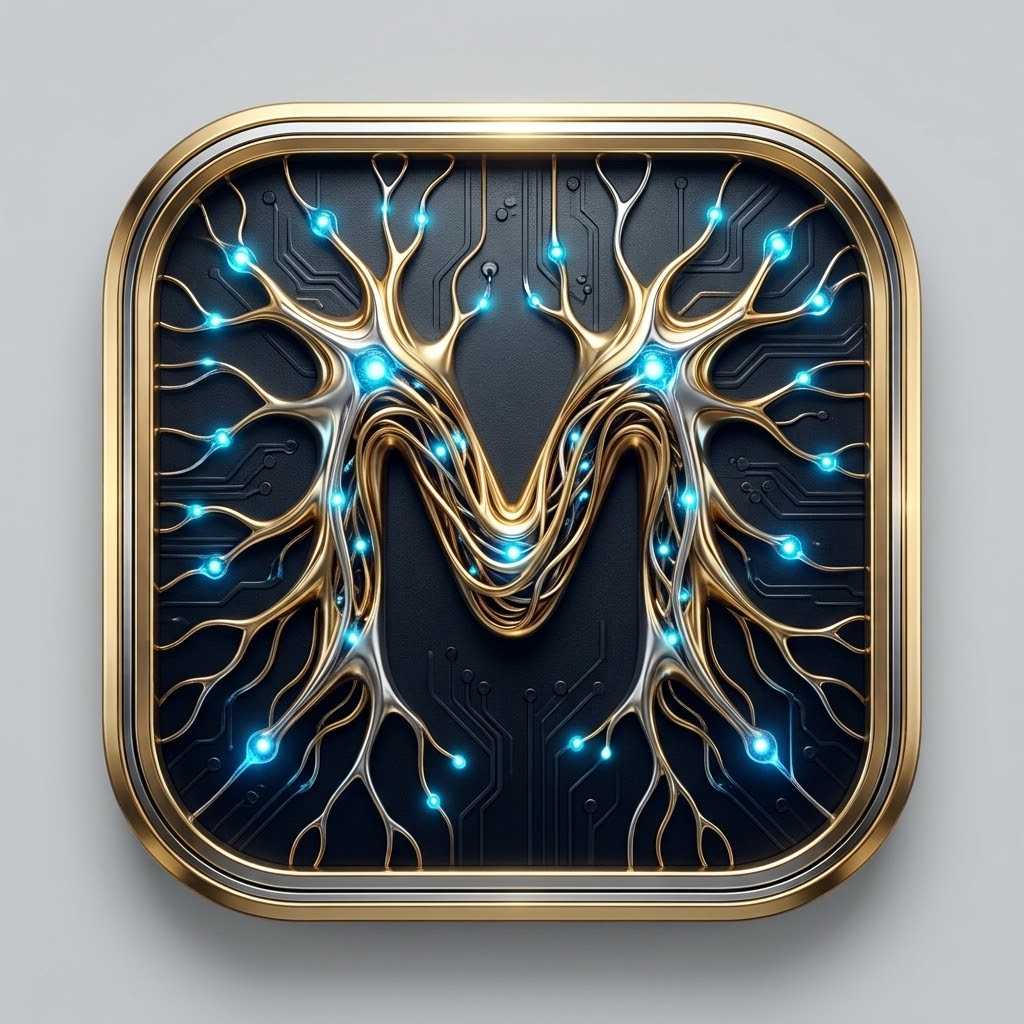
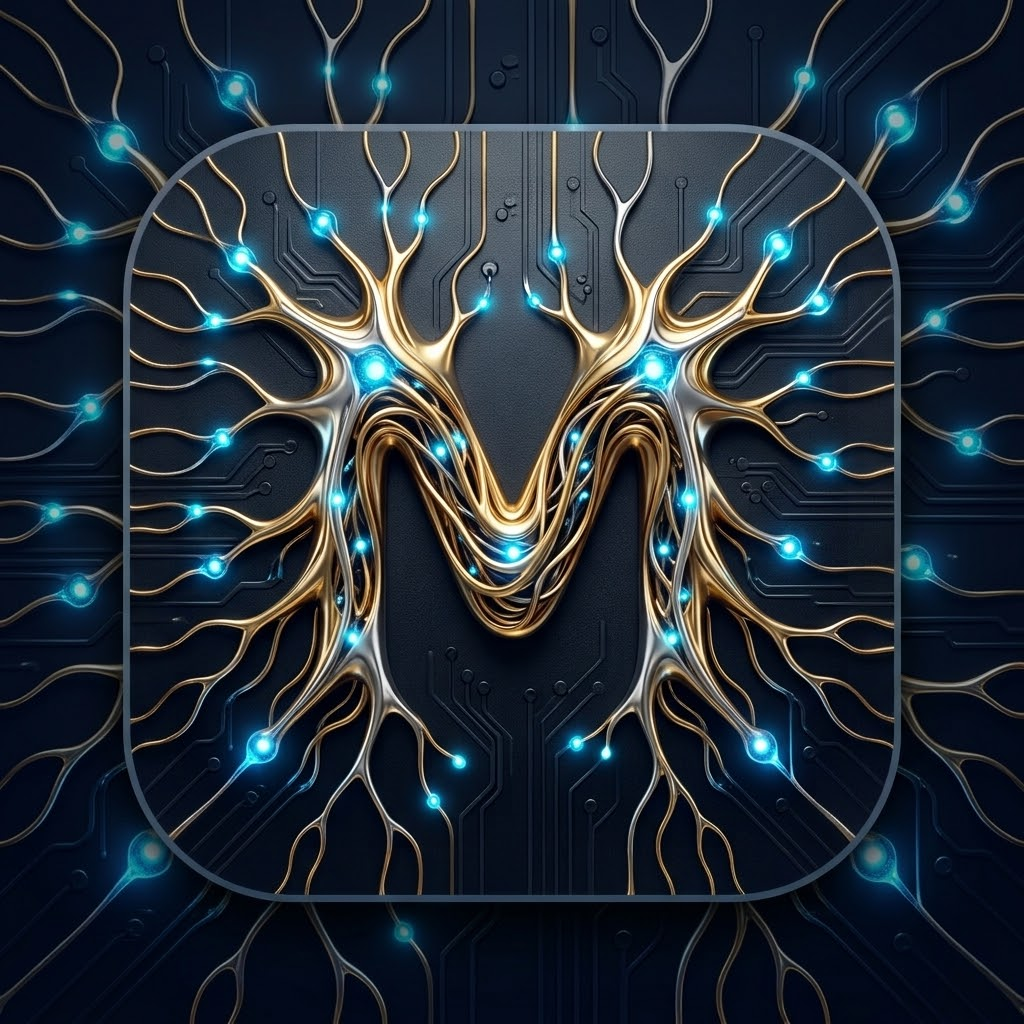
Troca o ícone pela arte nova (M de neurônios num quadro sobre placa de circuito)
A arte vai até a borda, então iPhone, Android e a tela de entrada usam a
imagem inteira; a aba do navegador usa só o quadro do meio.

Claude-Session: https://claude.ai/code/session_01KQSGnXn6P755qjmXErg9wm

diff --git a/CLAUDE.md b/CLAUDE.md
@@ -103,7 +103,7 @@ Tema escuro "vidro sobre luzes neon", inspirado no ícone (neurônio de vidro em
 - Degradê da marca só no destaque (cartão "Revisão de hoje", tela de entrada). Ciano `#4FDDFF` = toque e ação (botão principal ciano com texto escuro). Verde-menta `#34D399` = certo; coral `#FF6B5E` = errado (nunca rosa); âmbar = atenção; magenta `#FF4FD8` só na bolinha de novidade.
 - Fundo `#0A0D1C` com 2 luzes suaves, sem quadriculado. Engrenagem em vidro discreto.
 - Matérias em tons de pedra preciosa (texto branco legível): nefro `#2563EB`/`#1E3A8A`, pneumo `#0E7490`/`#155E75`, gastro `#047857`/`#065F46`, orto `#B45309`/`#7C2D12`, uro `#6D28D9`/`#4C1D95`, pass `#BE185D`/`#831843`. A cor clara de cada matéria (agenda, brilho do bloco) fica em `COR_MATERIA` (`lib/agenda.ts`).
-Tokens e regras no fim de `app/globals.css` (bloco "Tema Med Genius"). Ícones do app em `public/icons`, `app/icon.png`, `app/apple-icon.png`; logo em `public/brand/med-genius.webp` (ícone de 20/10/2026: neurônios dourados formando um "M" sobre placa de circuito escura, pontos azuis, moldura de ouro e prata; o original está em `public/brand/med-genius-original.jpg`). Os tamanhos saem do original recortando a moldura (quadrado de 101 a 922 px, cantos de raio ~200): navegador e computador com cantos transparentes; iPhone (`apple-icon`) cheio, porque o iOS arredonda sozinho; Android (`maskable-512`) com a peça em 66% do lado sobre o fundo `#0E1124`.
+Tokens e regras no fim de `app/globals.css` (bloco "Tema Med Genius"). Ícones do app em `public/icons`, `app/icon.png`, `app/apple-icon.png`; logo em `public/brand/med-genius.webp` (ícone de 20/10/2026: neurônios dourados formando um "M" num quadro de borda cinza fina, sobre placa de circuito escura com mais neurônios e pontos azuis até a borda; o original de 1024 px está em `public/brand/med-genius-original.jpg`). Tamanhos: iPhone (`apple-icon`), Android (`maskable-512`) e logo da tela de entrada usam a arte inteira (o sistema arredonda os cantos; na entrada, a moldura de ouro do CSS); `icon-192`/`icon-512` são a arte inteira com cantos arredondados (22,5%); a aba do navegador (`app/icon.png`) usa só o quadro do meio (123 a 901 px, cantos de raio ~172) para o M ficar maior.
 Tela de entrada: a da v4 (bloco próprio no fim de `app/globals.css`, com as cores da v4 só nela): logo numa moldura de ouro, "MED GENIUS" prateado com "Medicina · FAG" embaixo e, num cartão de vidro com moldura de cromo, os rótulos CPF e SENHA sobre os campos (ícone à esquerda, texto centralizado, olho para mostrar a senha) e o botão ENTRAR de ouro largo. Sem rodapé e sem aviso de senha esquecida.
 
 Versões do visual salvas no GitHub (ramos fixos, não publicados; não apague):
